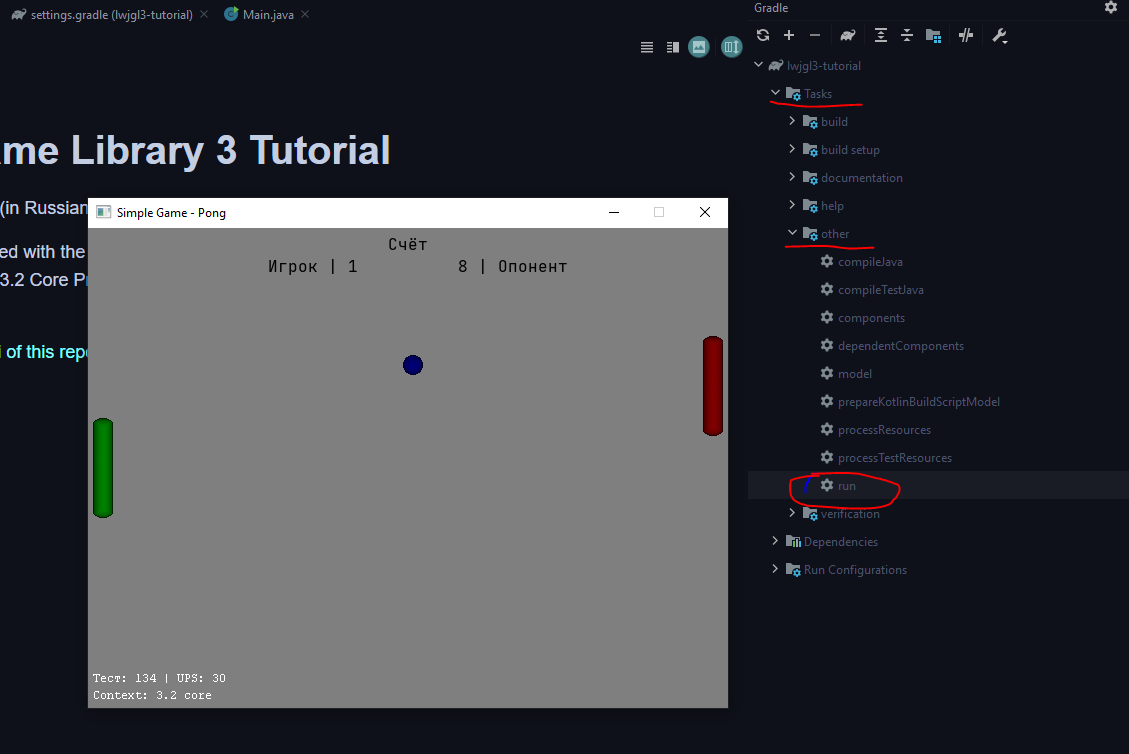
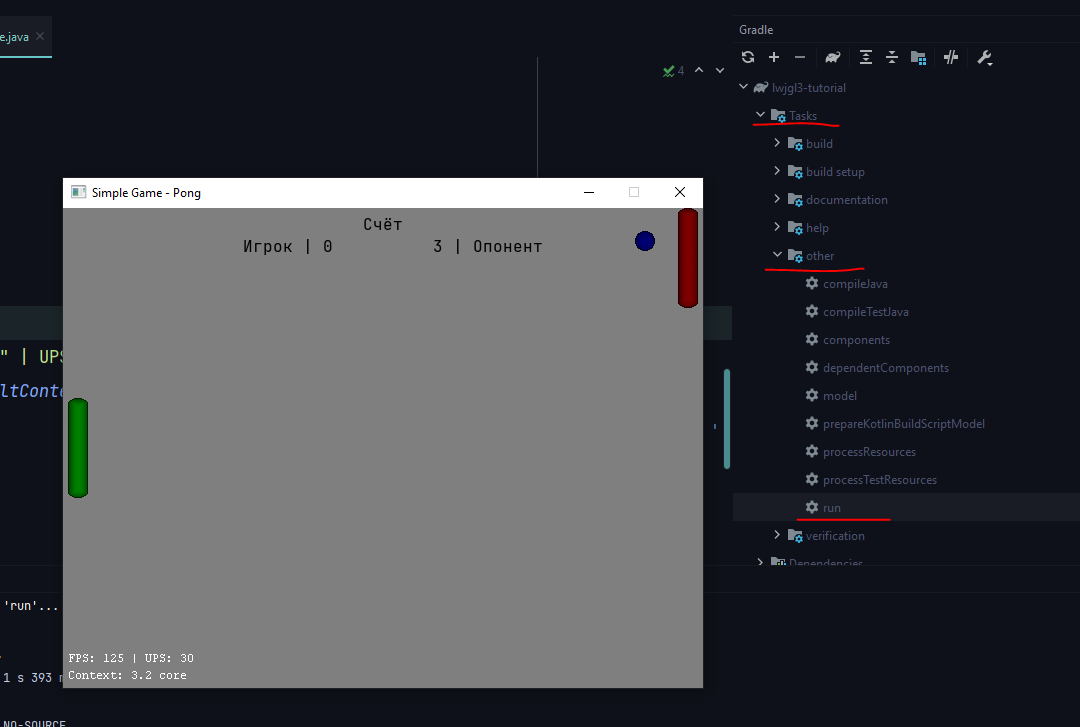
Fix and update.

diff --git a/src/main/java/silvertiger/tutorial/lwjgl/core/FixedTimestepGame.java b/src/main/java/silvertiger/tutorial/lwjgl/core/FixedTimestepGame.java
@@ -69,7 +69,7 @@ public class FixedTimestepGame extends Game {
 
             /* Draw FPS, UPS and Context version */
             int height = renderer.getDebugTextHeight("Context");
-            renderer.drawDebugText("Тест: " + timer.getFPS() + " | UPS: " + timer.getUPS(), 5, 5 + height);
+            renderer.drawDebugText("FPS: " + timer.getFPS() + " | UPS: " + timer.getUPS(), 5, 5 + height);
             renderer.drawDebugText("Context: " + (Game.isDefaultContext() ? "3.2 core" : "2.1"), 5, 5);
 
             /* Update window to show the new screen */
